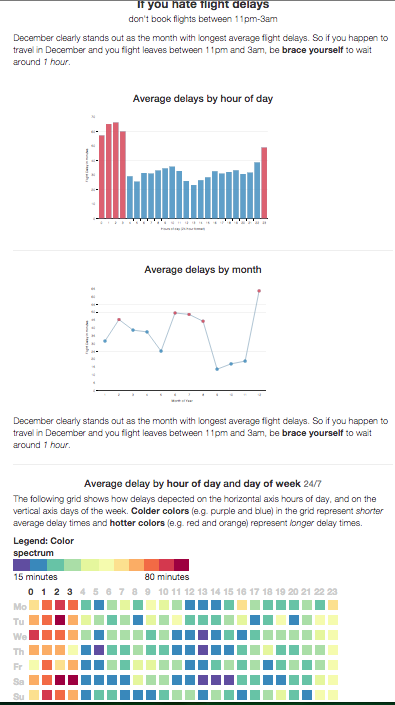
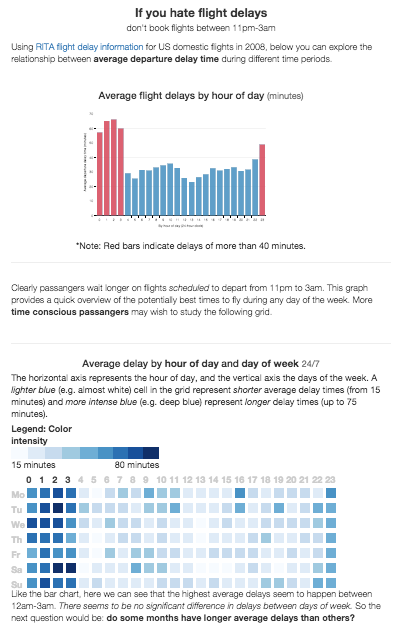
Finished reviewing README and index.html. Added most recent screenshots of vis. Tidied some code files.

Changed region(s): [[0.0, 0.0, 1.0, 1.0]]

diff --git a/index.html b/index.html
@@ -46,8 +46,9 @@
 
     <div class="row">
       <div class="col-md-8 col-md-offset-2">
-        <h2 class="text-center">Average delays by hour of day <small>minutes</small></h2>
+        <h2 class="text-center">Average flight delays by hour of day <small>(minutes)</small></h2>
         <div id="hourBar"></div>
+        <p><small>*Note: Red bars indicate delays of more than 40 minutes.</small></p>
       </div>
     </div>
 
@@ -55,41 +56,17 @@
 
     <div class="row">
       <div class="col-md-12">
+        <br>
         <p class="lead">
-          We can clearly perceive the higher time people wait on flights between 11pm and 3am.
-          This naturally leads us to think, is there a relationship for days of the week as well? After exploring the data a bit,
-          there seems to be no clear relationship, all days of the week seem practically identical. No chart
-          was included to show just this relationship. No useful information could be extracted, in the sense of:
-          if you wanted to avoid flight delays, you would have the same expected delay time any day of the week.
-          <small>In the grid visualization below, you can appreciate this fact.</small>
+          Clearly passangers wait longer on flights <em>scheduled</em> to depart from 11pm to 3am. This graph provides
+          a quick overview of the potentially best times to fly during any day of the week. More <b>time conscious
+          passangers</b> may wish to study the following grid.
         </p>
-        <p class="lead">
-          On the other hand, do delays vary between months of year?
-        </p>
+        <br>
       </div>
     </div>
 
     <hr>
-
-    <div class="row">
-      <div class="col-md-8 col-md-offset-2">
-        <h2 class="text-center">Average delays by month <small>minutes</small></h2>
-        <div id="chartContainer"></div>
-      </div>
-    </div>
-
-    <div class="row">
-      <div class="col-md-12">
-        <p class="lead">
-          December clearly stands out as the month with longest average flight delays. So if
-          you happen to travel in December and you flight leaves between 11pm and 3am, be
-          <b>brace yourself</b> to wait around <em>1 hour</em>.
-        </p>
-      </div>
-    </div>
-
-    <hr>
-
 
     <!--
     Grid visualization. Depicts three features, departure delays on day of week vs hour of day.
@@ -99,11 +76,11 @@
       <div class="col-md-12">
 
         <h2 class="text-center">Average delay by <b>hour of day</b> and <b>day of week</b> <small>24/7</small></h2>
-        <p class="lead">
-          The horizontal axis are the hours of day, and on the vertical axis has the
-          days of the week. <b>Lighter blue</b> (e.g. almost white)
-          in the grid represent <em>shorter</em> average delay times <small>(from 15 minutes)</small> and <b>more intense
-          blue</b> (e.g. deep blue) represent <em>longer</em> delay times <small>(up to 75 minutes)</small>.
+        <p class="">
+          The horizontal axis represents the hour of day, and the vertical axis the
+          days of the week. A <em>lighter blue</em> (e.g. almost white) cell
+          in the grid represent <em>shorter</em> average delay times <small>(from 15 minutes)</small> and <em>more intense
+          blue</em> (e.g. deep blue) represent <em>longer</em> delay times <small>(up to 75 minutes)</small>.
 
         </p>
 
@@ -142,20 +119,55 @@
     </div>
     <!-- end of row -->
 
-    <!-- Flight Delays by Hours of Day Bar Graph. -->
+    <!-- Grid visualization -->
     <div class="row">
       <div class="col-md-12">
 
         <div id="visualization" class="rbow1">
         </div>
-        <br>
-        <p class="lead">
-          The highest average delays seem to happen between 12am-3am.
-          There seems to be no significant difference in dalays between days of week.
-          </p>
+
       </div>
     </div>
     <!-- end of row -->
+
+    <hr>
+
+    <div class="row">
+      <div class="col-md-12">
+        <br>
+        <p class="lead">
+          Like the bar chart, here we can see that the highest average delays seem to happen between 12am-3am.
+          <em>There seems to be no significant difference in delays between days of week.</em>
+          So the next question would be: <b>do some months have longer average delays than others?</b>
+        </p>
+        <br>
+      </div>
+    </div>
+
+    <hr>
+
+    <div class="row">
+      <div class="col-md-8 col-md-offset-2">
+        <h2 class="text-center">Average flight delays by month <small>(minutes)</small></h2>
+        <div id="chartContainer"></div>
+        <p><small>*Note: Red dots indicate delays of more than 40 minutes.</small></p>
+      </div>
+    </div>
+
+    <hr>
+
+    <div class="row">
+      <div class="col-md-12">
+        <br>
+        <p class="lead">
+          December clearly stands out as the month with longest average flight delay, over <b>64 minutes</b>. So if
+          you happen to travel in December and you flight leaves between 11pm and 3am, expect to wait around <em>1 hour</em>.
+        </p>
+        <br>
+      </div>
+    </div>
+
+    <hr>
 
   </div>
   <!-- end of container -->

diff --git a/js/main.js b/js/main.js
@@ -119,8 +119,8 @@ d3.csv("data/2008-DateTime.csv", function(error, flights) {
   s.aggregate = dimple.aggregateMethod.avg;
   bar.draw();
 
-  x.titleShape.text("Hours of day (24 hour format)");
-  y.titleShape.text("Flight Delay in minutes");
+  x.titleShape.text("By hour of day (24-hour clock)");
+  y.titleShape.text("Average departure delay time (minutes)");
 
   s.getTooltipText = function (e) {
                 return [
@@ -153,7 +153,7 @@ d3.csv("data/2008-DateTime.csv", function(error, flights) {
   lineChart.draw();
 
   lineX.titleShape.text("Month of Year");
-  lineY.titleShape.text("Flight Delay in minutes");
+  lineY.titleShape.text("Average departure delay time (minutes)");
 
   // Change colors of months with higher average delay time than 40 minutes
   var lineFocus = d3.select("#chartContainer")
@@ -240,7 +240,7 @@ overview of the data. Max flight time, number of flights...
   //        .attr("class", function(d) { return d.class; })
   //        .attr("fill-opacity", 0.80);
   //
-  // // debugger;
+  //
   // var labelData = [
   //   {"y": cy - 20, "x": minR + 25, "class": "summary-labels", "text": "Min"},
   //   {"y": cy - 20, "x": maxR*2 + 25, "class": "summary-labels", "text": "Max"},
@@ -263,7 +263,7 @@ overview of the data. Max flight time, number of flights...
 
 /* **************************
 * Took this function from the Trulia Graphic.
-* It creates the HTML for the first visualization. Builds the grid via an
+* It creates the HTML for the grid visualization. Builds the grid via an
 * HTML table, with each cell representing a tile of hour-day of week.
 */
 

diff --git a/process_data.py b/process_data.py
@@ -1,4 +1,6 @@
-
+"""
+Script to process RITA file.
+""""
 
 import pandas as pd
 import numpy as np

diff --git a/README.md b/README.md
@@ -2,10 +2,9 @@
 
 ## Summary
 
-By looking at the [Rita Flight dataset](http://stat-computing.org/dataexpo/2009/the-data.html), this visualization explores the relationship between **average flight departure delay time** and time of the day. This question leads us to ask,
-does average delay time vary between months of the year?
+By looking at the [Rita flight dataset](http://stat-computing.org/dataexpo/2009/the-data.html) for 2008, this visualization explores the relationship between **average flight departure delay time** and the hour of day. This also leads us to explore the relationship between delay time and other periods of time, like day of week and months of the year.
 
-[View the visualization](http://sebasibarguen.github.io/udacity-nanodegree-visualization/)
+I suggest you first [View the visualization](http://sebasibarguen.github.io/udacity-nanodegree-visualization/), and then read the full design process.
 
 ## Design
 
@@ -16,7 +15,7 @@ After exploring the data, trying out different chart types, playing with the nar
 > The process of getting feedback was a good lesson on *less is more*, and to first
 and foremost, focus on the main message of the visualization.
 
-That's why I chose the bar chart over the more fancy grid visualization as the main focus. The bar chart simply communicates the message faster and clearer.
+That's why I chose the bar chart over the more fancy grid visualization as the main plot. The bar chart simply communicates the message faster and clearer.
 
 Additional design choices around the bar chart were first to add focus to the hours with highest average delay times, which is the main point of the visualization. I accomplished this by changing the *color* of the bars of interest. Then, to improve the viewers interaction, I also fixed the *tooltip* message to just include the exact amount of minutes. Again, I found out that less is more, a cluttered tooltip hurts more than helps the viewer.
 
@@ -27,20 +26,12 @@ Additional design choices around the bar chart were first to add focus to the ho
 | distance y | average delay time |
 | color hue  | high/low average delay time |
 
-### Line Chart
-The next chart to be explored is a line chart, which shows the average delay times by month of year. A line chart was chosen to present this data so as to show the time relationship month by month. After exploring multiple years, the month variations stays roughly the same, and so it appears to be seasonal. To give focus on the months with highest delay times, I decided to change the color of the months with highest value, which turns out to be February (not quite sure why), June through August (summer vacations) and December (holiday).
-
-| Visual encodings | Variable |
--------------------|------------------|
-| distance x | month of year |
-| distance y | average delay time |
-| color hue  | high/low average delay time |
 
 ### Grid Visualization
+After the viewer get's a feel of the delay time between hours of the day, a next natural step is to present them with the grid visualization which combines the bar chart variables and adds another, days of the week.
+
 For the grid visualization, I decided to use a calendar grid comparing how flight
-delays vary depending on the hour of day and day of week. The inspiration came from a [Trulia graph](http://www.trulia.com/vis/tru247/) depicting the time of day and day of week most people go house hunting. The idea behind the design is to use hue-colors as a way to communicate the amount of delay time, hotter colors representing longer delays while cooler colors shorter. The reasons for choosing the use of colors and a grid chart is that in just one graph we are able to group the relationship between
-three variables and make it aesthetically pleasing way. It permits us to look at relationships like: **what's the worst day-time of the week regarding flight time delays?** **Are time delays worst on early Tuesdays or late Fridays?** What I found out based on feedback is that this visualization is not so easy to digest, and the color coding is far from clear. To improve these concerns, I changed the color coding from multiple color-hues to different intensities of a single-hue. This definitely
-helped interpret the grid better, there is simply less room for the viewer to mis-understand.
+delays vary depending on the hour of day and day of week. The inspiration came from a [Trulia graph](http://www.trulia.com/vis/tru247/) depicting the time of day and day of week most people go house hunting. The idea behind the design is to use hue-colors as a way to communicate the amount of delay time, hotter colors representing longer delays while cooler colors shorter. The reasons for choosing the use of colors and a grid chart is that in just one graph we are able to group the relationship between  three variables and make it aesthetically pleasing way. It permits us to look at relationships like: **what's the worst day-time of the week regarding flight time delays?** **Are time delays worst on early Tuesdays or late Fridays?** What I found out based on feedback is that this visualization is not so easy to digest, and the color coding is far from clear. To improve these concerns, I **changed the color coding from multiple color-hues to different intensities of a single-hue**. This definitely helped interpret the grid better, there is simply less room for the viewer to mis-understand. Also, the tooltip is a really **helpful interaction** for the same reason, the user can explore the data much more freely and get concrete values instead of guessing what the 3'rd level of color intensity means.
 
 
 | Visual encodings | Variable |
@@ -50,16 +41,27 @@ helped interpret the grid better, there is simply less room for the viewer to mi
 | color hue  | flight delay time |
 
 
-The grid visualization confirms the message the bar charts first gives, and it also tells us something interesting, **there is not much difference in average delay times between days of week**.
+The grid visualization confirms the message the bar charts first gives, and it also tells us something interesting:
+
+> there is not much difference in average delay times between days of week
+
+
+### Line Chart
+The next chart to be explored is a line chart, which shows the average delay times by month of year. A line chart was chosen to present this data so as to show the time relationship month by month. After exploring multiple years, the month variations stays roughly the same, and so it appears to be seasonal. To give focus on the months with highest delay times, I decided to change the color of the months with highest value, which turns out to be February (not quite sure why), June through August (summer vacations) and December (holiday).
+
+| Visual encodings | Variable |
+-------------------|------------------|
+| distance x | month of year |
+| distance y | average delay time |
+| color hue  | high/low average delay time |
 
 ### Layout and Narrative
-The layout changed a lot based on the narrative of the visualization. You can appreciate this in the sketches below. The final layout was chosen because it was the one which best communicated the core message, which is that average flight delays are worst between 11pm and 3am, and December has the highest delay times of the year.
+The layout changed a lot based on the narrative of the visualization. You can appreciate this in the sketches below. The final layout was chosen because it was the one which best communicated the core message. I chose an *author driven* approach to explore the visualization and tried to follow a natural flow of curiosity and practicality (usefulness) of the information. By these principles, the bar chart came as clear first pick to present the most information in a fast and clear manner.
 
 #### Sketch
 ![Sketch](/img/visualization_sketch.JPG)
 
-*This is the first sketch I did to get an overview idea of the visualizations I was
-planning to use.*
+*This is the first sketch I did to get an overview idea of the visualizations I was planning to use.*
 
 #### Version 1
 
@@ -69,22 +71,17 @@ planning to use.*
 
 #### Version 2
 
-![Version 2](https://www.evernote.com/shard/s14/sh/716fa520-b722-469a-bcfc-aacee3dfb4cc/682335413c42244825d66a7ceb6d3318/deep/0/visualization_v2.png)
+![Version 2](https://www.evernote.com/shard/s14/sh/a1ae0961-8fab-43f7-9598-a65499d063e4/f85453909fb4e653029eab0ac7d907af/deep/0/visualization_v2.png)
 
 *For the second version, the biggest changes based on feedback were:*
 1. Include a legend for the first graph, the message was not clear.
-2. Add chart titles and
+2. Add chart titles
+3. Fixed an issue with the bar chart including NaN values
+4. Removed non-existing 2009 data from line chart
+
+
 
 #### Version 3
-
-*For the third version, the biggest changes based on feedback were:*
-1. Fixed an issue with the bar chart including NaN values
-2. Removed non-existing 2009 data from line chart
-
-![Version 3](https://www.evernote.com/shard/s14/sh/a1ae0961-8fab-43f7-9598-a65499d063e4/f85453909fb4e653029eab0ac7d907af/deep/0/visualization_v3.png)
-
-
-#### Version 4
 
 *For the fourth version, the biggest changes based on feedback were:*
 1. Fixed issue with some labels in first visualization being different sizes
@@ -94,7 +91,7 @@ planning to use.*
 ![Version 4](/img/visualization_v4.png)
 
 
-#### Version 5
+#### Version 4
 *For the fifth version, there were some big changes based on Udacity coach feedback:*
 1. General improvement of main point, story and structure
 2. All charts are using same dataset for 2008 and using **average delay** time
@@ -108,30 +105,27 @@ planning to use.*
 10. Changed color palette of grid visualization
 
 ![Version 5](/img/visualization_v5.png)
+![Version 5](/img/visualization_v5_2.png)
 
 ### Final thoughts on design
 
-After hearing the feedback and thinking about the message, I believe that these three
-graphs are the right design choices.
+After hearing the feedback and thinking about the message, I believe that these three graphs are the right design choices.
 
-Complementing the 24/7 grid graph with the bar chart helps clarify the message. The
-feedback helped with important details like fixing bugs, clarifying the graphs with
-titles, labels and legends, and making sure that all three graphs are consistent and
-give complement each other.
+Getting good feedback is king! It is the only way to validate that the visualization is accomplishing it's purpose and communicating the message as intended. A good communication principle tells us that the message that really matters is the one being received by the viewer in this case, not the one we believe we are sending.
 
-I believe that the three charts clearly show that:
-* The worst flight delays tend to happen on **Mondays, Thursdays and Sundays around 7pm**
-* **7pm** is the hour of the day with highest flight delays on average
-* Over the year, the highest flight delays occur during **summer** and **end of year**
+> After multiple iterations, I found out that keeping focus on the main point and checking if the feedback was consistent with the objective is what design is all about.
 
+To that point, the bar chart is the one that most clearly communicates the message. After the viewer 'gets' educated by the first graph, we can take them to a more elaborate plot, the grid visualization. Finally, complementing the message we present the line plot to finish the delay-time period exploration.
 
-## For the future:
-- [ ] add a dynamic grid table, with the ability to change the data for a given year
-- [ ] add summary circle dashboard on top
+I believe that the three charts clearly show:
+* The worst flight delays tend to happen between **11pm and 3am**
+* **December holidays** and **summer** have a huge peak in flight delays
+* There is not much difference between days of the week
+
+*An important note, in the descriptions used in the visualization, people seem to prefer the 12-hour clock format, even though the plots use a 24-hour clock format. This inconsistency is quite interesting. I suspect it's due to the fact that when reading we are trained to rapidly interpret the 12-hour format, we are more accustomed to it. But when analyzing a graph, we might prefer an increasing axis labels, as we expect that from plots. It appears that there are two different expectations for the clock format depending on **context**.*
 
 ## Feedback
-To validate and review my visualizations, I conducted 4 interviews. Most were completed through email
-and one using [Pixelapse](pixelapse.com). Below you can find the comments.
+To validate and review my visualizations, I conducted 4 interviews. Most were completed through email and one using [Pixelapse](pixelapse.com). Below you can find the comments. I also included part of the Udacity coach's feedback.
 
 ### First interview
 > What do the colors of the first graphic mean?
@@ -165,6 +159,14 @@ The question i had was that if this situation is getting better or worse thru ti
 between the first and second chart.
 I didn’t understand why in the first chart the hour 1a is bigger than the others.
 No, after i read all information it was clear. It took me like 10min watching all the information in my phone.
+
+###  Udacity coach
+>You should work further on the data and your use of it in order to make a visualization that is easy to understand. The way that delays have been aggregated in each of the three plots seems to be different and in each case it is difficult to interpret. The note stating the aggregation (above the legend) is very small and hard to read. It is not very easy to understand what 12,000 minutes of delays means in practice. It is currently not possible to understand whether large total delays are caused by long delays or simply many flights in total.
+It would be better to show the average delay per flight. (Don’t forget to look carefully at which average would be best for this - would a mean or a median be more appropriate?) This would make the graphic easier to relate to a real-life situation. It also disentangles the effect of the number of flights at a given time (hour/day of week/month of year) from the lengths of the delays at that time. This could lead to an interesting investigation of whether delays occur more often at busy times of day. Depending on your findings, this could make a more compelling story.
+
+## For the future:
+- [ ] add a dynamic grid table, with the ability to change the data for a given year
+- [ ] add summary circle dashboard on top
 
 ## Resources
 
